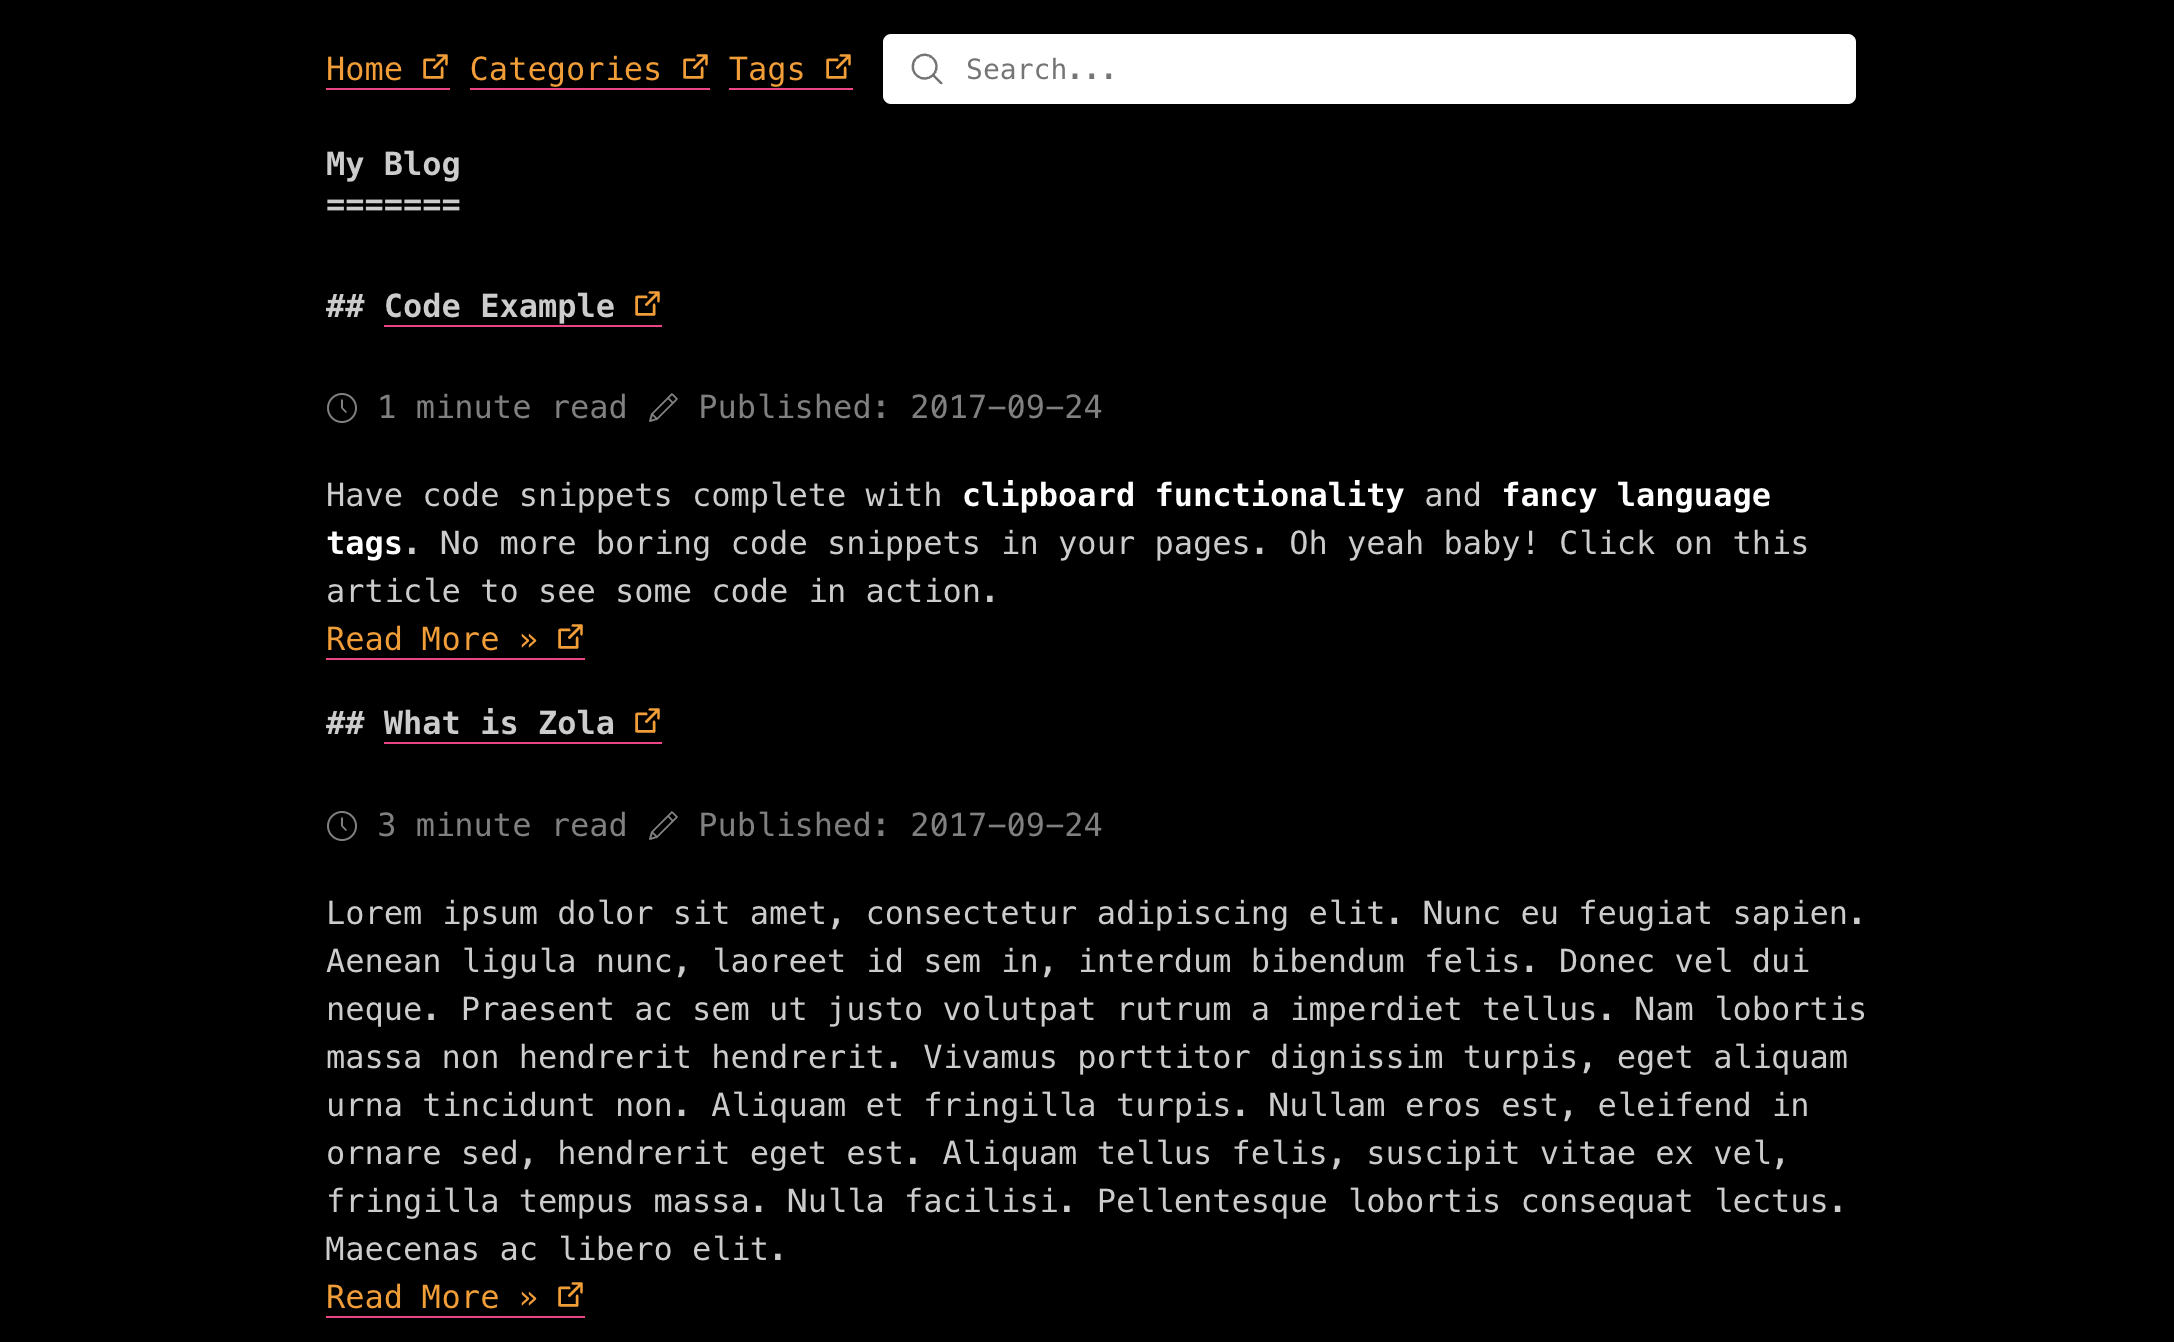
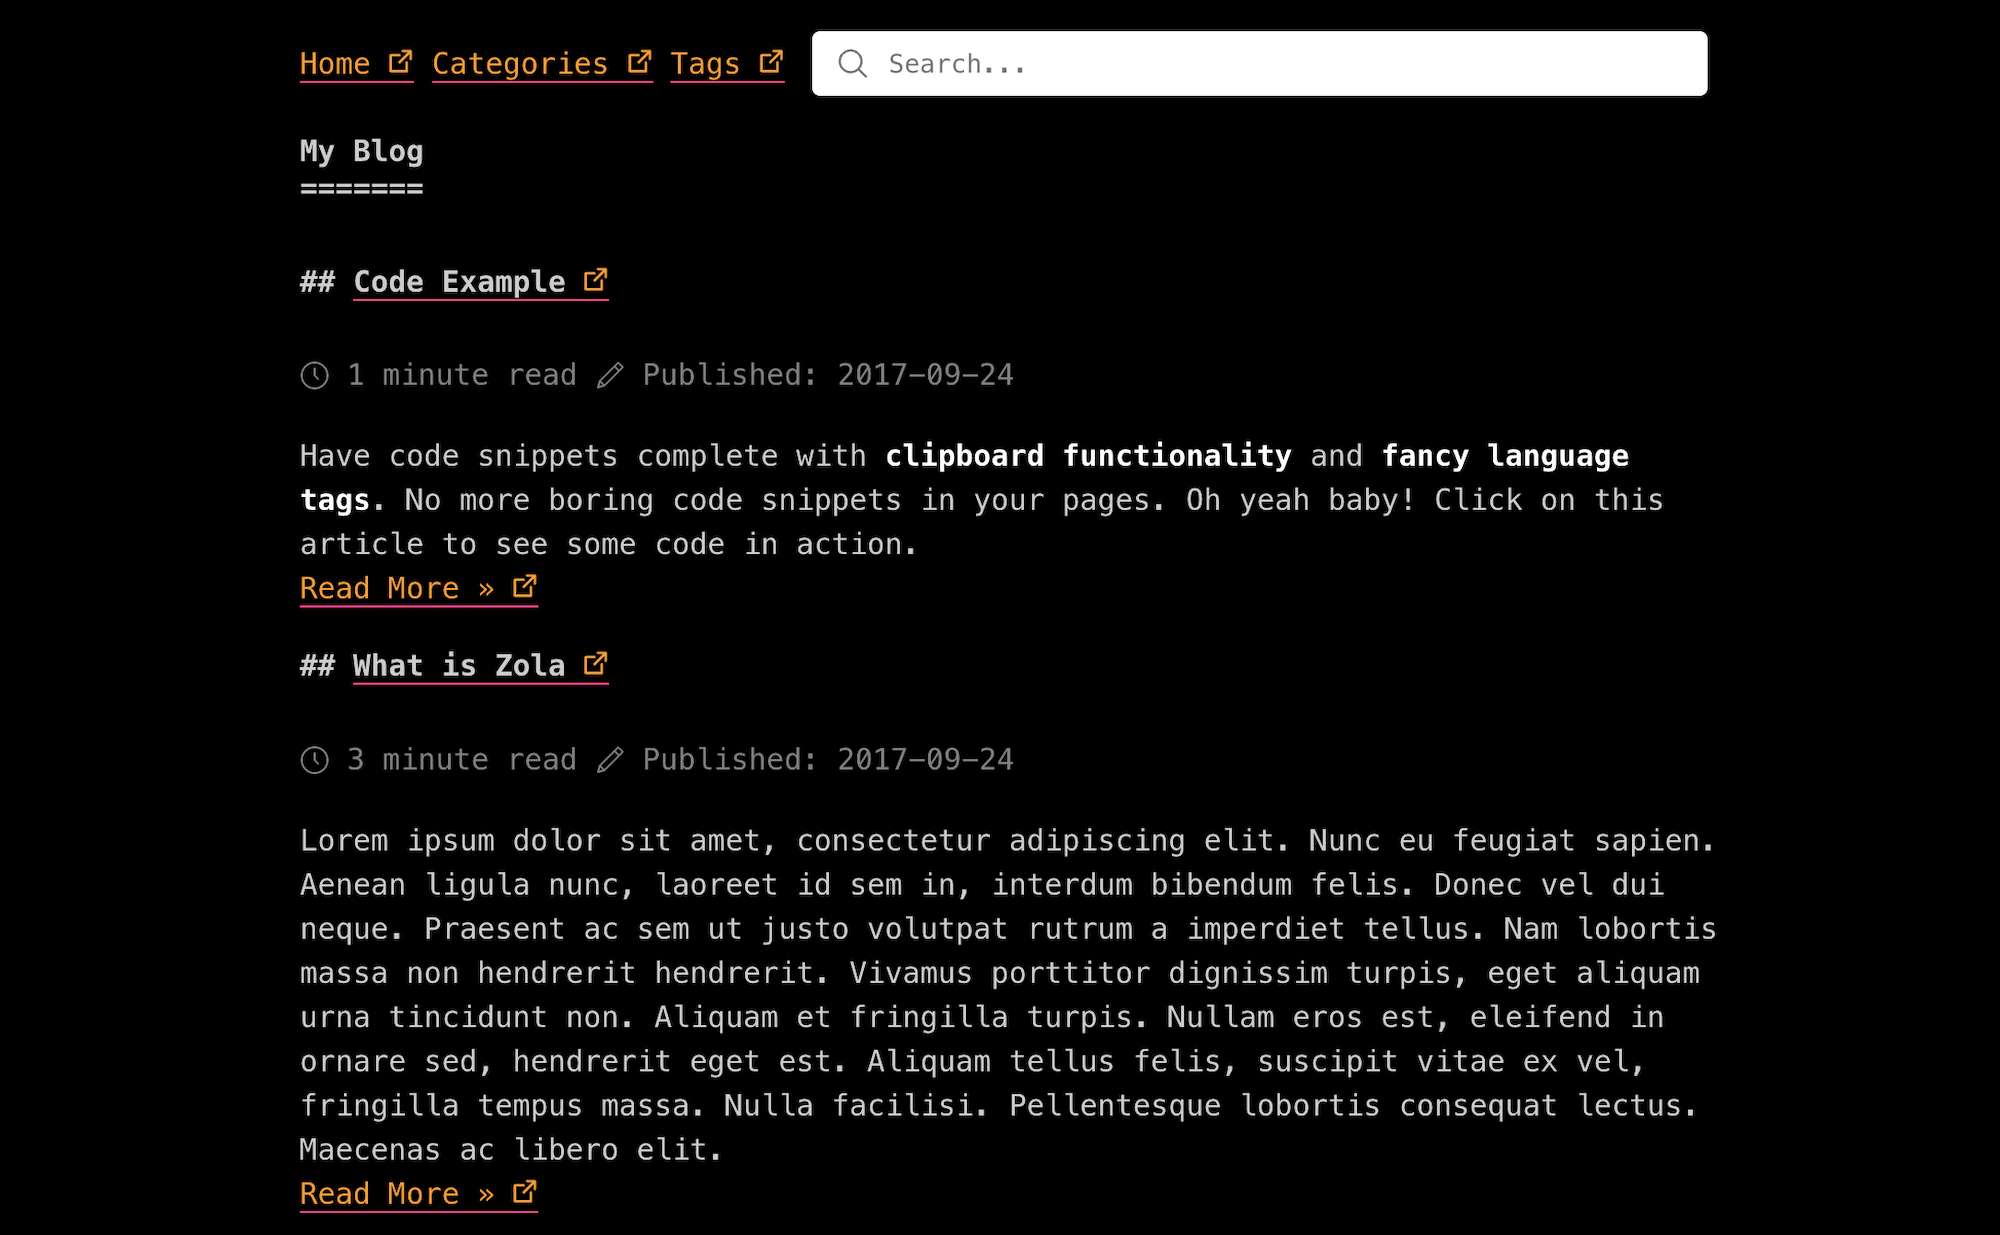
fix: graceful search index path resolution, downsize screenshot

diff --git a/static/js/search.js b/static/js/search.js
@@ -148,32 +148,46 @@ function initSearch() {
   var currentTerm = "";
   var index;
 
-  const initIndex = async function () {
+  const initIndex = function () {
     if (index === undefined) {
-      try {
-        // Try relative to the current path first
-        const indexPath = `${window.location.pathname.replace(/\/+$/, "")}/search_index.en.json`;
-        const response = await fetch(indexPath);
+      // Get the base path by looking for the first path segment
+      const pathParts = window.location.pathname.split("/");
+      const basePath = pathParts[1] ? `/${pathParts[1]}` : "";
+      const indexPath = `${basePath}/search_index.en.json`;
 
-        if (!response.ok) {
-          // If that fails, try from the root
-          const rootResponse = await fetch("/search_index.en.json");
-          if (!rootResponse.ok) {
-            throw new Error("Search index not found");
+      // Try fetching the search index file from the base path
+      // and if that fails, try fetching it from the root path
+      index = fetch(indexPath)
+        .then((response) => {
+          if (!response.ok && response.status === 404) {
+            // If base path fails, try root path
+            return fetch("/search_index.en.json");
           }
-          const data = await rootResponse.json();
-          index = Promise.resolve(elasticlunr.Index.load(data));
-        } else {
-          const data = await response.json();
-          index = Promise.resolve(elasticlunr.Index.load(data));
-        }
-      } catch (error) {
-        console.error("Error loading search index:", error);
-        throw error;
-      }
+          return response;
+        })
+        .then((response) => {
+          if (!response.ok && response.status === 404) {
+            // If both paths fail
+            console.warn(
+              "Search index not found at either the base or root path.",
+            );
+            return null;
+          }
+          return response.json();
+        })
+        .then((data) => {
+          if (data) {
+            return elasticlunr.Index.load(data);
+          }
+          return null;
+        })
+        .catch((error) => {
+          console.error("Error loading search index:", error);
+          throw error;
+        });
     }
 
-    return await index;
+    return index;
   };
 
   $searchInput.addEventListener(
